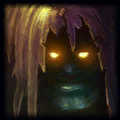
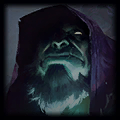
Updated to 6.18.1

diff --git a/css/matchDetailPageSplash.css b/css/matchDetailPageSplash.css
@@ -40,8 +40,8 @@
 }
 
 .matchDetailPage .matchDetailSelection83 {
-    background-position: 275px -33px;
-    background-size: 50%;
+    background-position: 282px 1px;
+    background-size: 46%;
 }
 
 .matchDetailPage .matchDetailSelection157 {
